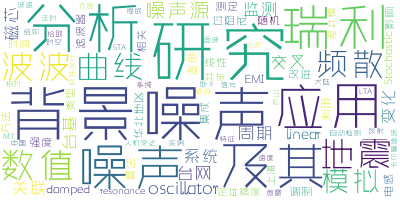
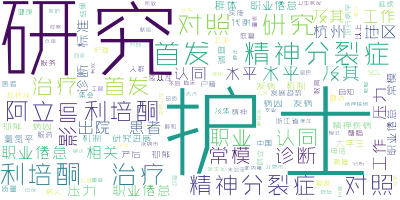
addd

diff --git a/PySPH/damp.py b/PySPH/damp.py
@@ -1,0 +1,115 @@
+"""Two-dimensional dam break over a dry bed.  (30 minutes)
+
+The case is described in "State of the art classical SPH for free surface
+flows", Moncho Gomez-Gesteira, Benedict D Rogers, Robert A, Dalrymple and Alex
+J.C Crespo, Journal of Hydraulic Research, Vol 48, Extra Issue (2010), pp
+6-27. DOI:10.1080/00221686.2010.9641242
+
+"""
+
+import os
+import numpy as np
+
+from pysph.base.kernels import WendlandQuintic
+from pysph.examples._db_geometry import DamBreak2DGeometry
+from pysph.solver.application import Application
+from pysph.sph.scheme import WCSPHScheme
+
+fluid_column_height = 2.0
+fluid_column_width = 1.0
+container_height = 4.0
+container_width = 4.0
+nboundary_layers = 2
+#h = 0.0156
+h = 0.039
+ro = 1000.0
+co = 10.0 * np.sqrt(2*9.81*fluid_column_height)
+gamma = 7.0
+alpha = 0.1
+beta = 0.0
+B = co*co*ro/gamma
+p0 = 1000.0
+
+
+class DamBreak2D(Application):
+    def add_user_options(self, group):
+        self.hdx = 1.3
+        group.add_argument(
+            "--h-factor", action="store", type=float, dest="h_factor",
+            default=1.0,
+            help="Divide default h by this factor to change resolution"
+        )
+
+    def consume_user_options(self):
+        self.h = h/self.options.h_factor
+        print("Using h = %f"%self.h)
+        self.hdx = self.hdx
+        self.dx = self.h/self.hdx
+
+    def configure_scheme(self):
+        self.scheme.configure(h0=self.h, hdx=self.hdx)
+        kernel = WendlandQuintic(dim=2)
+        tf = 2.5
+        from pysph.sph.integrator import EPECIntegrator
+        self.scheme.configure_solver(
+            kernel=kernel,
+            integrator_cls=EPECIntegrator,
+            tf=tf,
+            adaptive_timestep=True, n_damp=50, fixed_h=False,
+            output_at_times=[0.4, 0.6, 0.8, 1.0]
+        )
+
+    def create_scheme(self):
+        s = WCSPHScheme(
+            ['fluid'], ['boundary'], dim=2, rho0=ro, c0=co,
+            h0=h, hdx=1.3, gy=-9.81, alpha=alpha, beta=beta,
+            gamma=gamma, hg_correction=True, update_h=True
+        )
+        return s
+
+    def create_particles(self):
+        geom = DamBreak2DGeometry(
+            container_width=container_width, container_height=container_height,
+            fluid_column_height=fluid_column_height,
+            fluid_column_width=fluid_column_width, dx=self.dx, dy=self.dx,
+            nboundary_layers=1, ro=ro, co=co,
+            with_obstacle=False,
+            beta=1.0, nfluid_offset=1, hdx=self.hdx)
+        return geom.create_particles()
+
+    def post_process(self, info_fname):
+        info = self.read_info(info_fname)
+        if len(self.output_files) == 0:
+            return
+
+        from pysph.solver.utils import iter_output
+        t, x_max = [], []
+        factor = np.sqrt(2.0*9.81/fluid_column_width)
+        files = self.output_files
+        for sd, array in iter_output(files, 'fluid'):
+            t.append(sd['t']*factor)
+            x = array.get('x')
+            x_max.append(x.max())
+
+        t, x_max = list(map(np.asarray, (t, x_max)))
+        fname = os.path.join(self.output_dir, 'results.npz')
+        np.savez(fname, t=t, x_max=x_max)
+
+        import matplotlib
+        matplotlib.use('Agg')
+        from matplotlib import pyplot as plt
+        from pysph.examples import db_exp_data as dbd
+        plt.plot(t, x_max, label='Computed')
+        te, xe = dbd.get_koshizuka_oka_data()
+        plt.plot(te, xe, 'o', label='Koshizuka & Oka (1996)')
+        plt.xlim(0, 0.7*factor); plt.ylim(0, 4.5)
+        plt.xlabel('$T$'); plt.ylabel('$Z/L$')
+        plt.legend(loc='upper left')
+        plt.savefig(os.path.join(self.output_dir, 'x_vs_t.png'), dpi=300)
+        plt.close()
+
+if __name__ == '__main__':
+    app = DamBreak2D()
+    app.run()
+    app.post_process(app.info_filename)
+

diff --git a/Article/article_analysis.py b/Article/article_analysis.py
@@ -79,6 +79,7 @@ class Article():
                 #artinfo=self.getarticleinfo(nexturl)
                 #print(nexturl)
                 print(itra.string)
+                #needed to be del
                 break
                        
     def write2file(self,buf):
@@ -111,5 +112,52 @@ if __name__ == '__main__':
     outFile='out.txt'
     driv=webdriver.PhantomJS(executable_path='./bin/phantomjs.exe')
     art=Article(inFile,outFile,driver=driv)
-
-  
+    from os import path  
+    from scipy.misc import imread  
+    import matplotlib.pyplot as plt  
+    import jieba  
+    
+    from wordcloud import WordCloud, STOPWORDS, ImageColorGenerator  
+    
+    stopwords = {}  
+    def importStopword(filename=''):  
+        global stopwords  
+        f = open(filename, 'r')  
+        line = f.readline().rstrip()  
+    
+        while line:  
+            stopwords.setdefault(line, 0)  
+            stopwords[line] = 1  
+            line = f.readline().rstrip()  
+    
+        f.close()  
+    
+    def processChinese(text):  
+        seg_generator = jieba.cut(text)  # 使用结巴分词，也可以不使用  
+    
+        seg_list = [i for i in seg_generator if i not in stopwords]  
+    
+        seg_list = [i for i in seg_list if i != u' ']  
+    
+        seg_list = r' '.join(seg_list)  
+    
+        return seg_list  
+    d = path.dirname(__file__)  
+    
+    
+    text = open(outFile,"r").read()  
+    text=processChinese(text)
+    wc = WordCloud( font_path='./font/叶立群几何体.ttf',#设置字体
+                background_color="white", #背景颜色
+                max_words=2000,# 词云显示的最大词数
+                #mask=back_coloring,#设置背景图片
+                #max_font_size=100, #字体最大值
+                random_state=42,
+                )
+    #WordCloud()
+    wc.generate(text)  
+    plt.figure()  
+    plt.imshow(wc)  
+    plt.axis("off")  
+    plt.show()  
+    wc.to_file(path.join(d, "名称.png")) 
